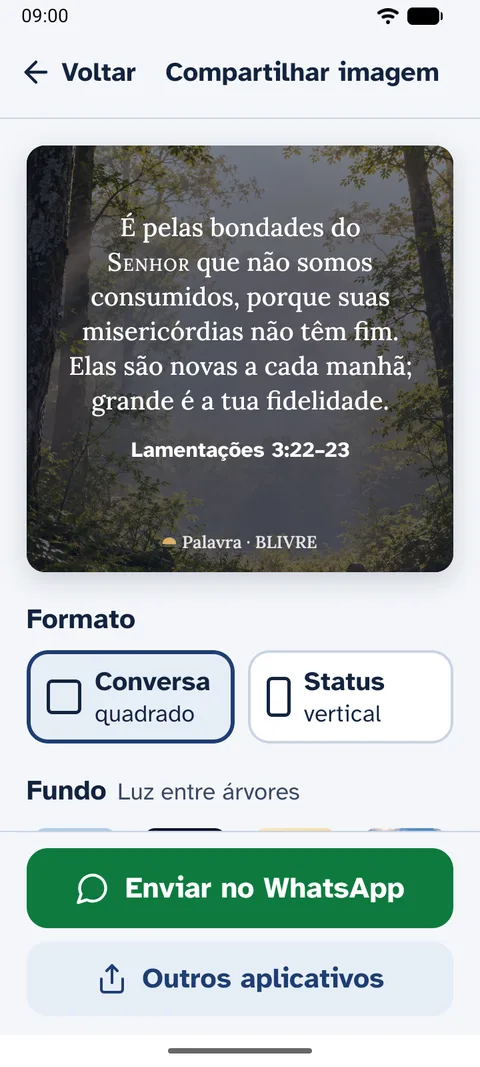
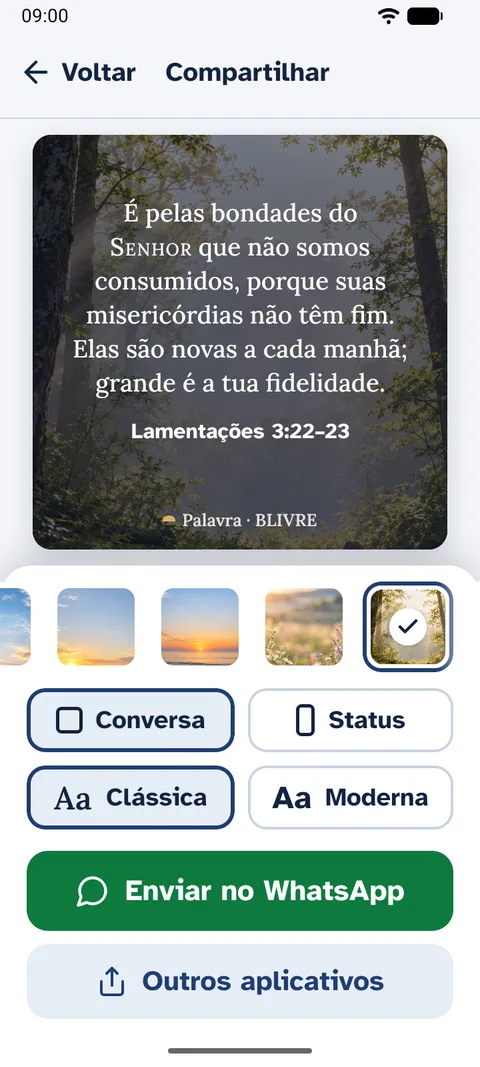
Página do Palavra: tela nova de compartilhar e a reflexão no recurso de compartilhar

diff --git a/palavra/index.html b/palavra/index.html
@@ -123,7 +123,7 @@ footer p { margin: 0 0 0.5rem; }
       <li>
         <span class="icone-recurso"><svg aria-hidden="true" focusable="false" width="28" height="28" viewBox="0 0 24 24" fill="none" stroke="currentColor" stroke-width="2" stroke-linecap="round" stroke-linejoin="round"><circle cx="18" cy="5" r="3"/><circle cx="6" cy="12" r="3"/><circle cx="18" cy="19" r="3"/><line x1="8.59" x2="15.42" y1="13.51" y2="17.49"/><line x1="15.41" x2="8.59" y1="6.51" y2="10.49"/></svg></span>
         <h3>Compartilhar com a família</h3>
-        <p>Transforme o versículo numa imagem bonita e envie pelo WhatsApp.</p>
+        <p>Transforme o versículo ou a reflexão do dia numa imagem bonita e envie pelo WhatsApp.</p>
       </li>
       <li>
         <span class="icone-recurso"><svg aria-hidden="true" focusable="false" width="28" height="28" viewBox="0 0 24 24" fill="none" stroke="currentColor" stroke-width="2" stroke-linecap="round" stroke-linejoin="round"><path d="M6 8a6 6 0 0 1 12 0c0 7 3 9 3 9H3s3-2 3-9"/><path d="M10.3 21a1.94 1.94 0 0 0 3.4 0"/></svg></span>
@@ -149,7 +149,7 @@ footer p { margin: 0 0 0.5rem; }
         <figcaption>Letra e tema</figcaption>
       </figure></li>
       <li><figure>
-        <img class="tela" src="imagens/05-compartilhar.webp" width="480" height="1067" loading="lazy" alt="Imagem com o versículo sobre uma foto de árvores, pronta para enviar no WhatsApp.">
+        <img class="tela" src="imagens/05-compartilhar.webp" width="480" height="1067" loading="lazy" alt="Tela Compartilhar: o versículo sobre uma foto de árvores, os fundos para escolher logo abaixo e o botão Enviar no WhatsApp.">
         <figcaption>Compartilhar</figcaption>
       </figure></li>
       <li><figure>
